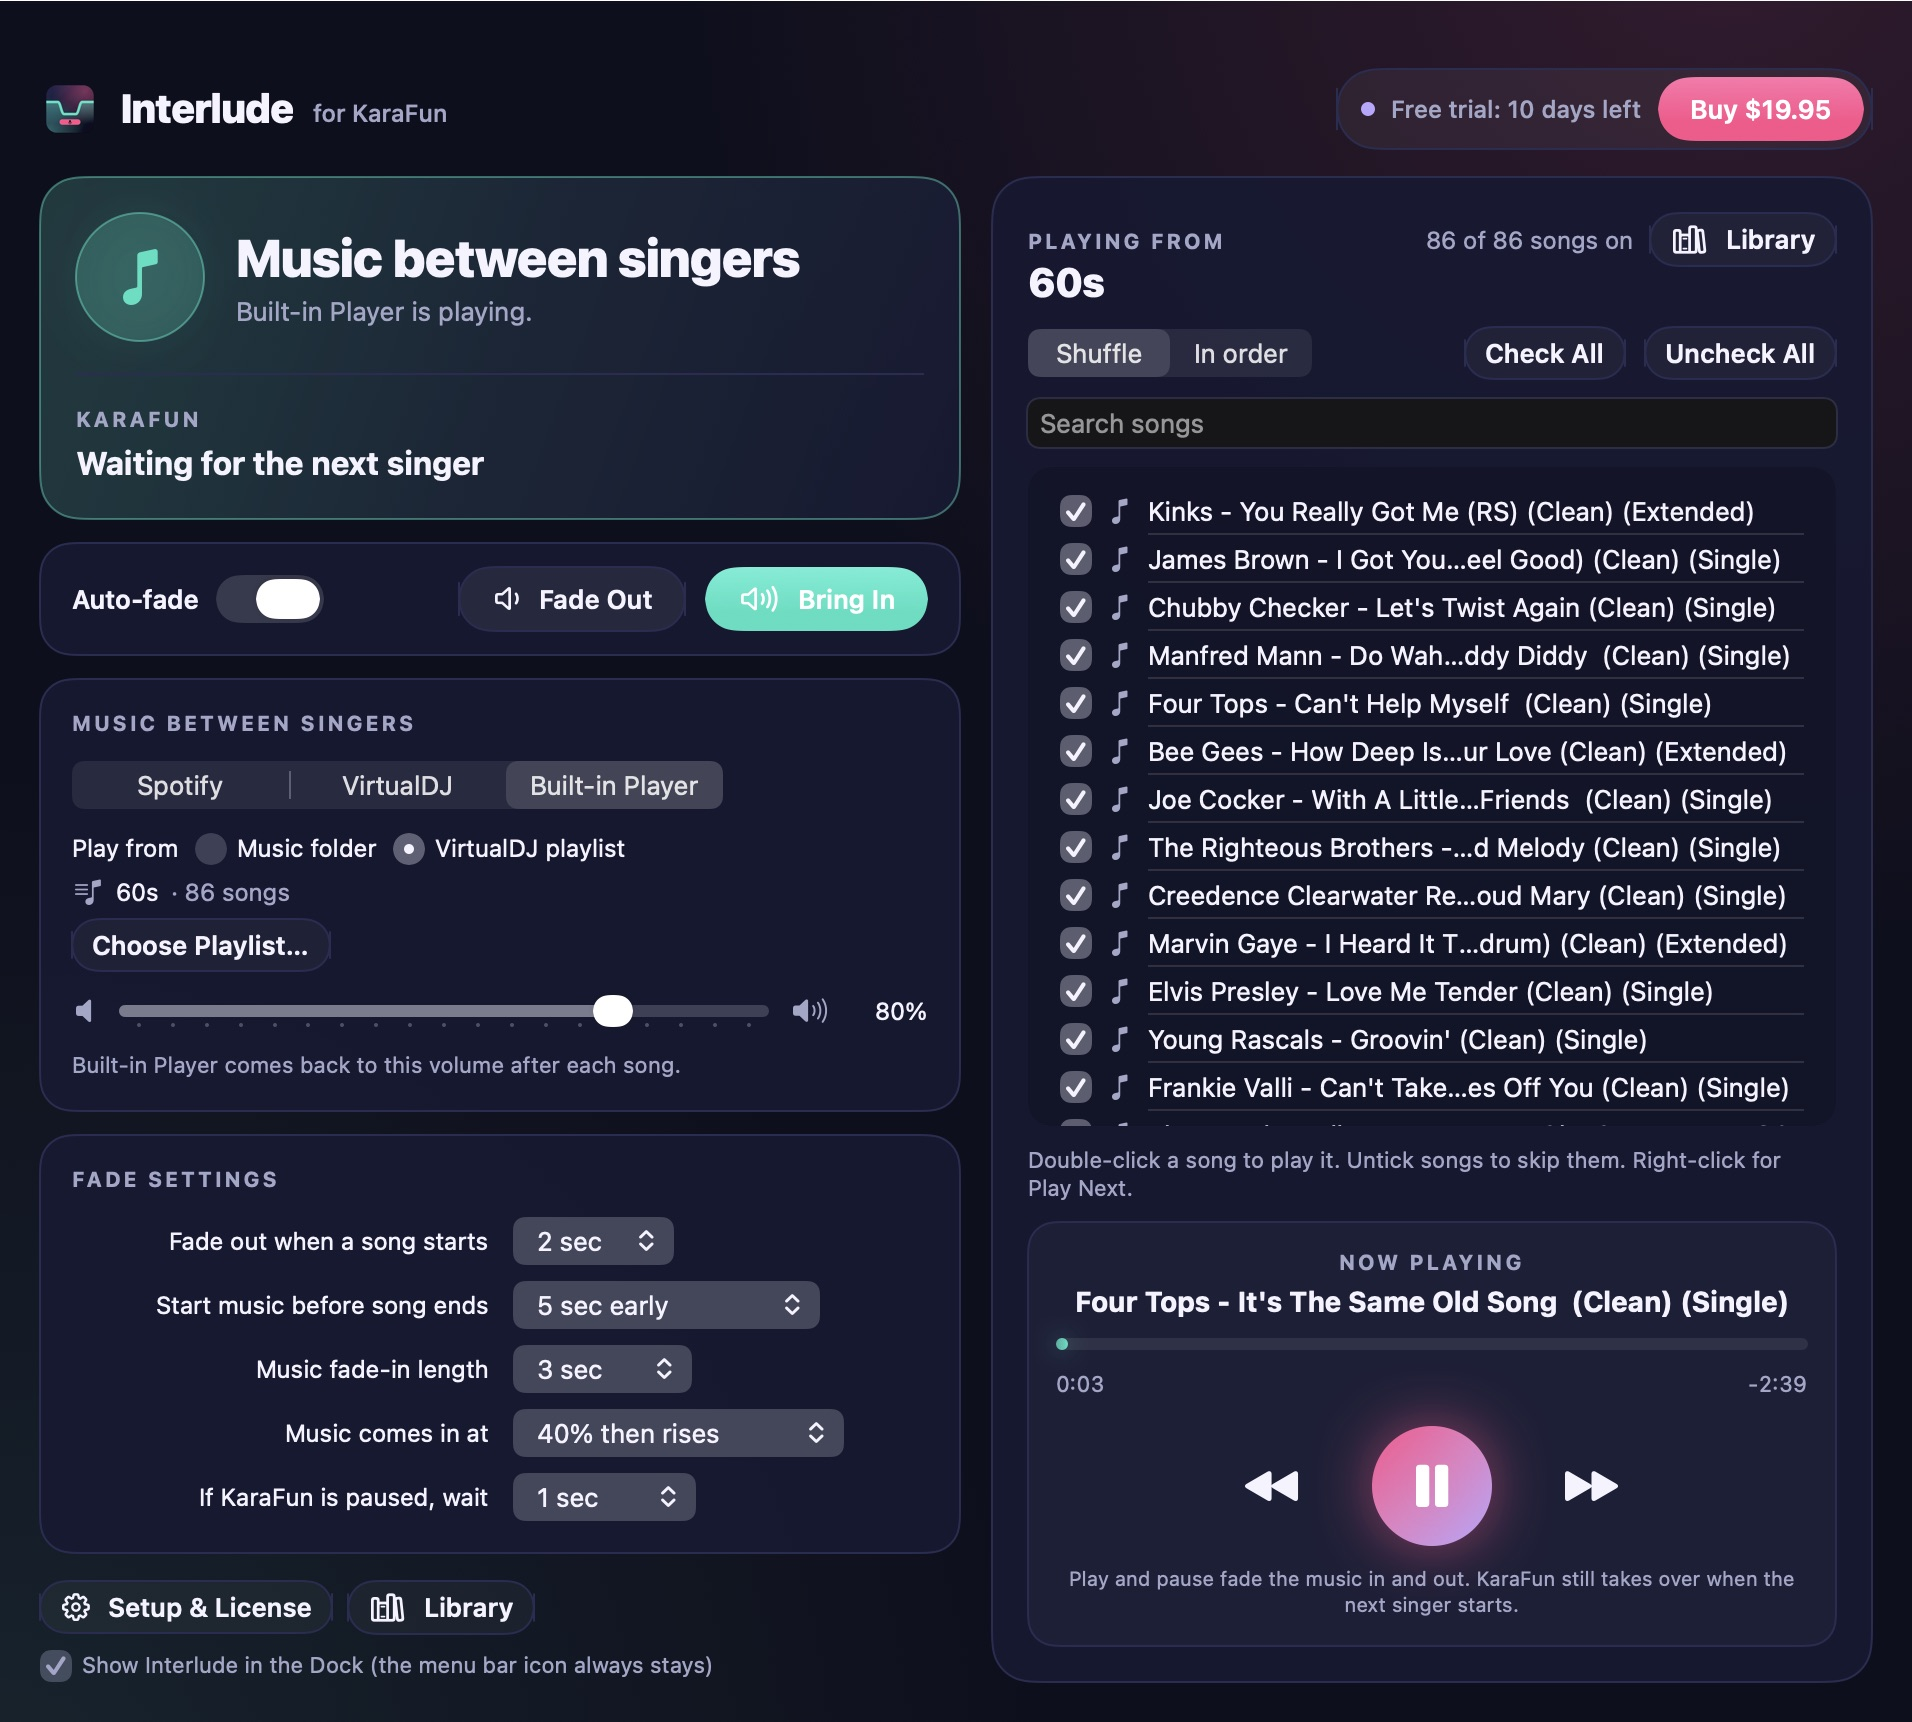
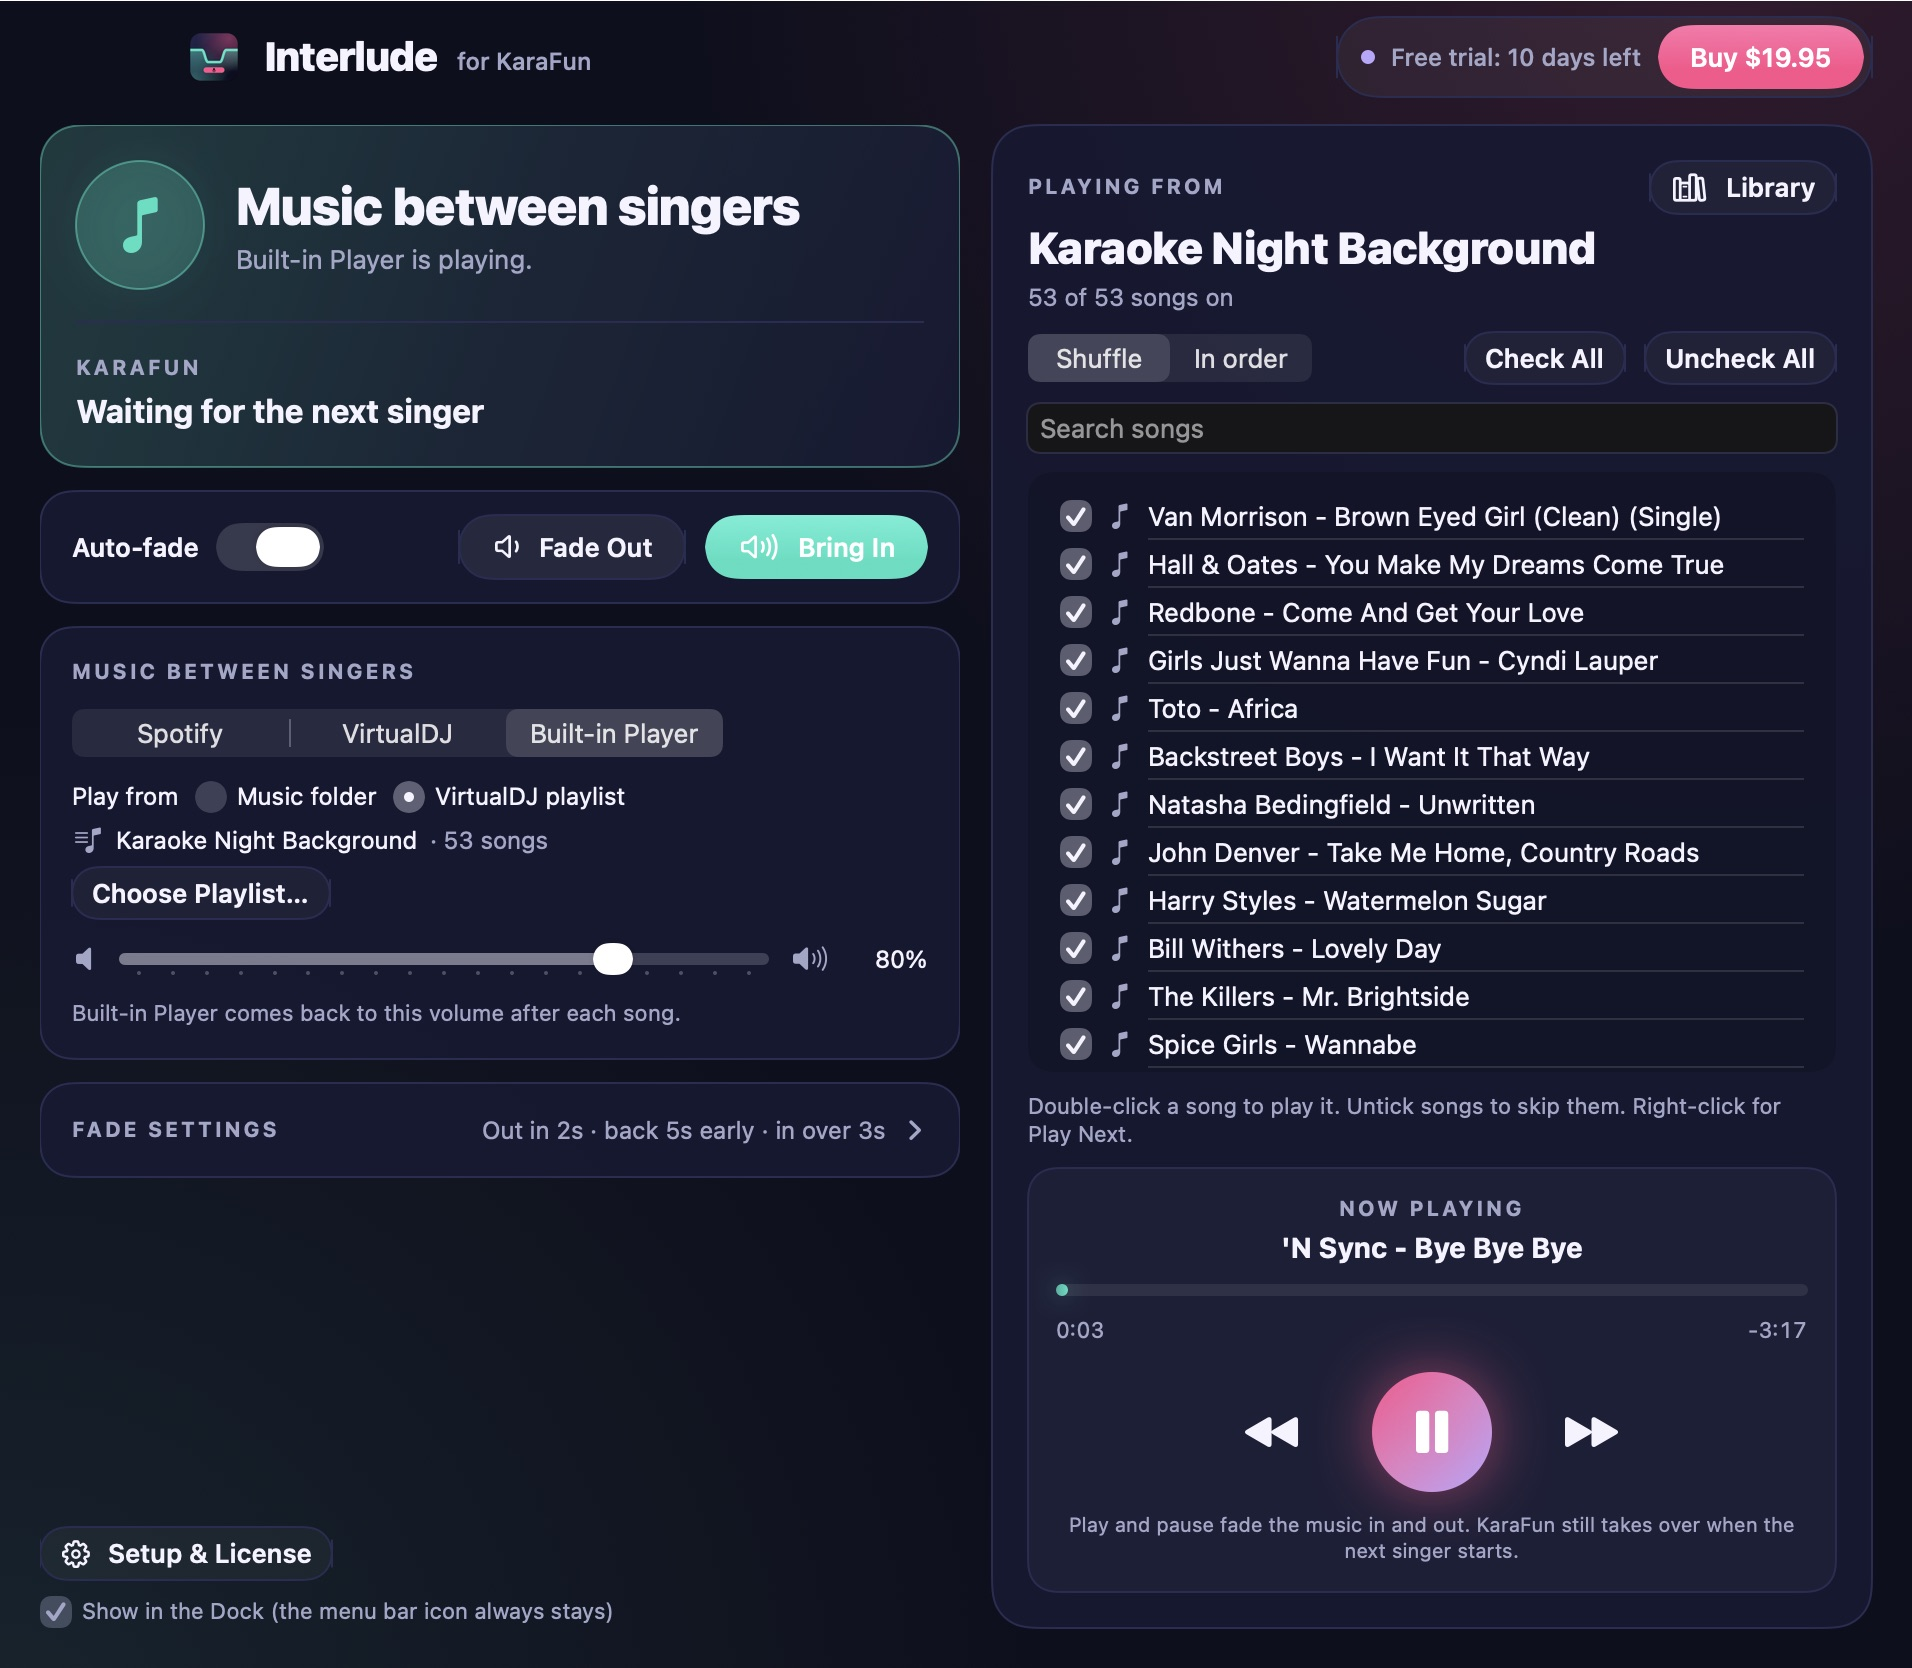
Updated app screenshot

diff --git a/index.html b/index.html
@@ -98,7 +98,7 @@
     <p class="fine">One-time purchase. No subscription. Works on 2 Macs. Requires macOS 13 or later.</p>
   </div>
 
-  <figure class="shot"><img src="app.jpg" alt="The Interlude window: status, KaraFun song, fade settings, and the song list with play controls" width="956" height="861"></figure>
+  <figure class="shot"><img src="app.jpg" alt="The Interlude window: status, KaraFun song, fade settings, and the song list with play controls" width="956" height="834"></figure>
 
   <section id="how">
     <h2>How it works</h2>
